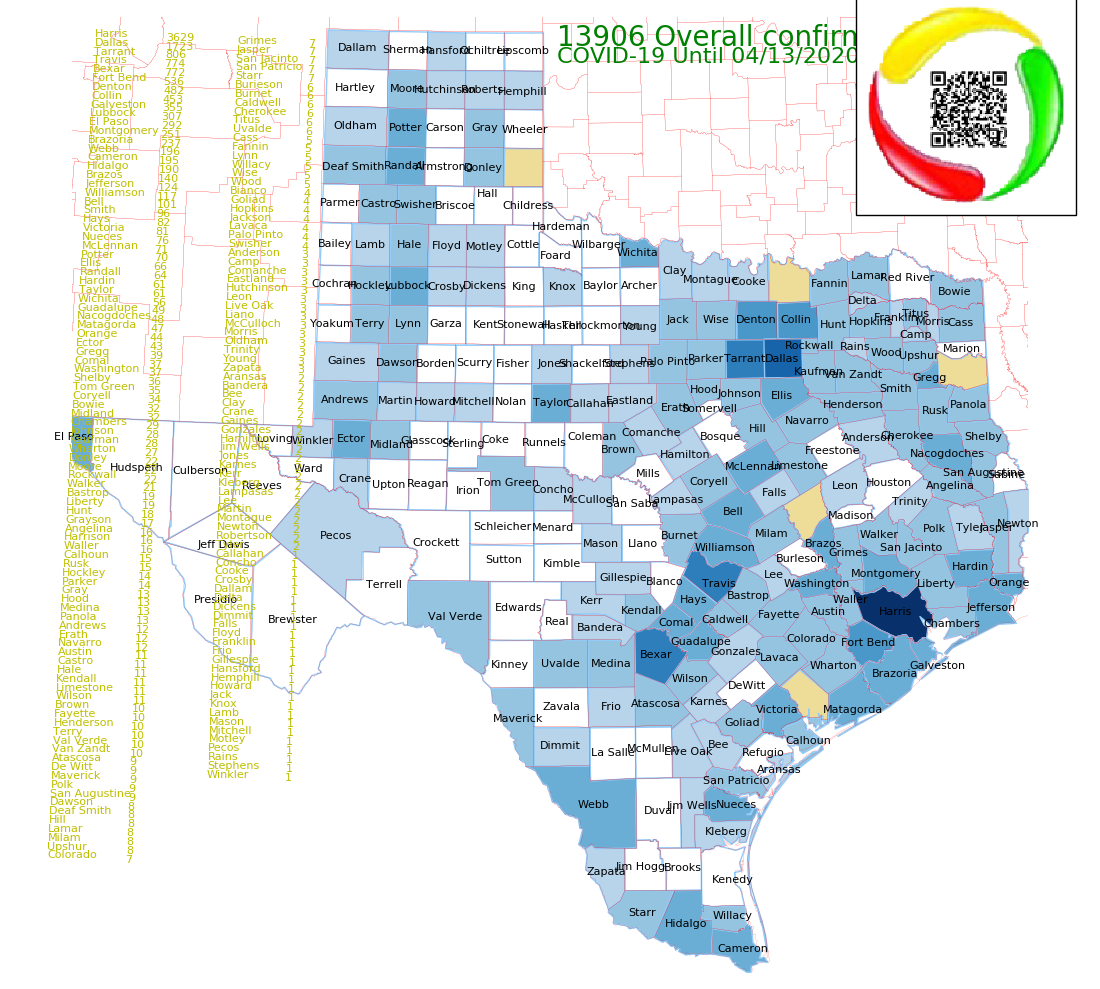
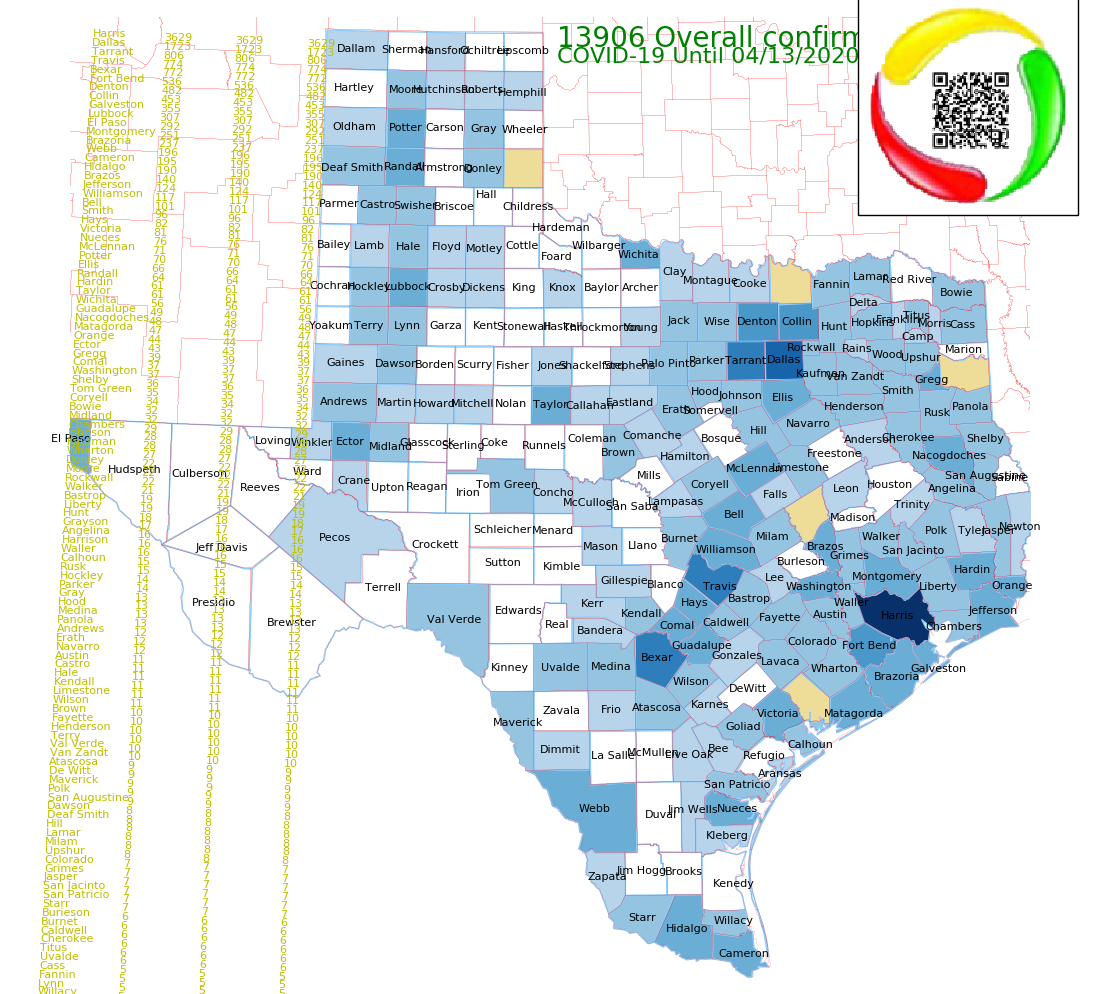
up load today's data

diff --git a/mapviz20.py b/mapviz20.py
@@ -222,6 +222,7 @@ class mapViz(object):
         ii = 0
         lat2, lon2 = lat_1+float(self.l_state_config[13][1]), lon_1+float(self.l_state_config[13][2])
         lat3, lon3 = lat_1+float(self.l_state_config[14][1]), lon_1+float(self.l_state_config[14][2])
+
         for a_case in l_cases_today:	
             if('Total' in a_case[0]): continue
             if('County' in a_case[0]): continue

diff --git a/virusviz18.py b/virusviz18.py
@@ -45,7 +45,7 @@ class runVirusViz(object):
         # create a node
         print("welcome to node virusviz")
         #choose one state in US
-        self.state_name = 'MI'
+        self.state_name = 'TX'
         if( isfile('../state.txt')):
             with open('../state.txt', 'r') as f:
                 self.state_name = f.readlines()[0][0:2]
